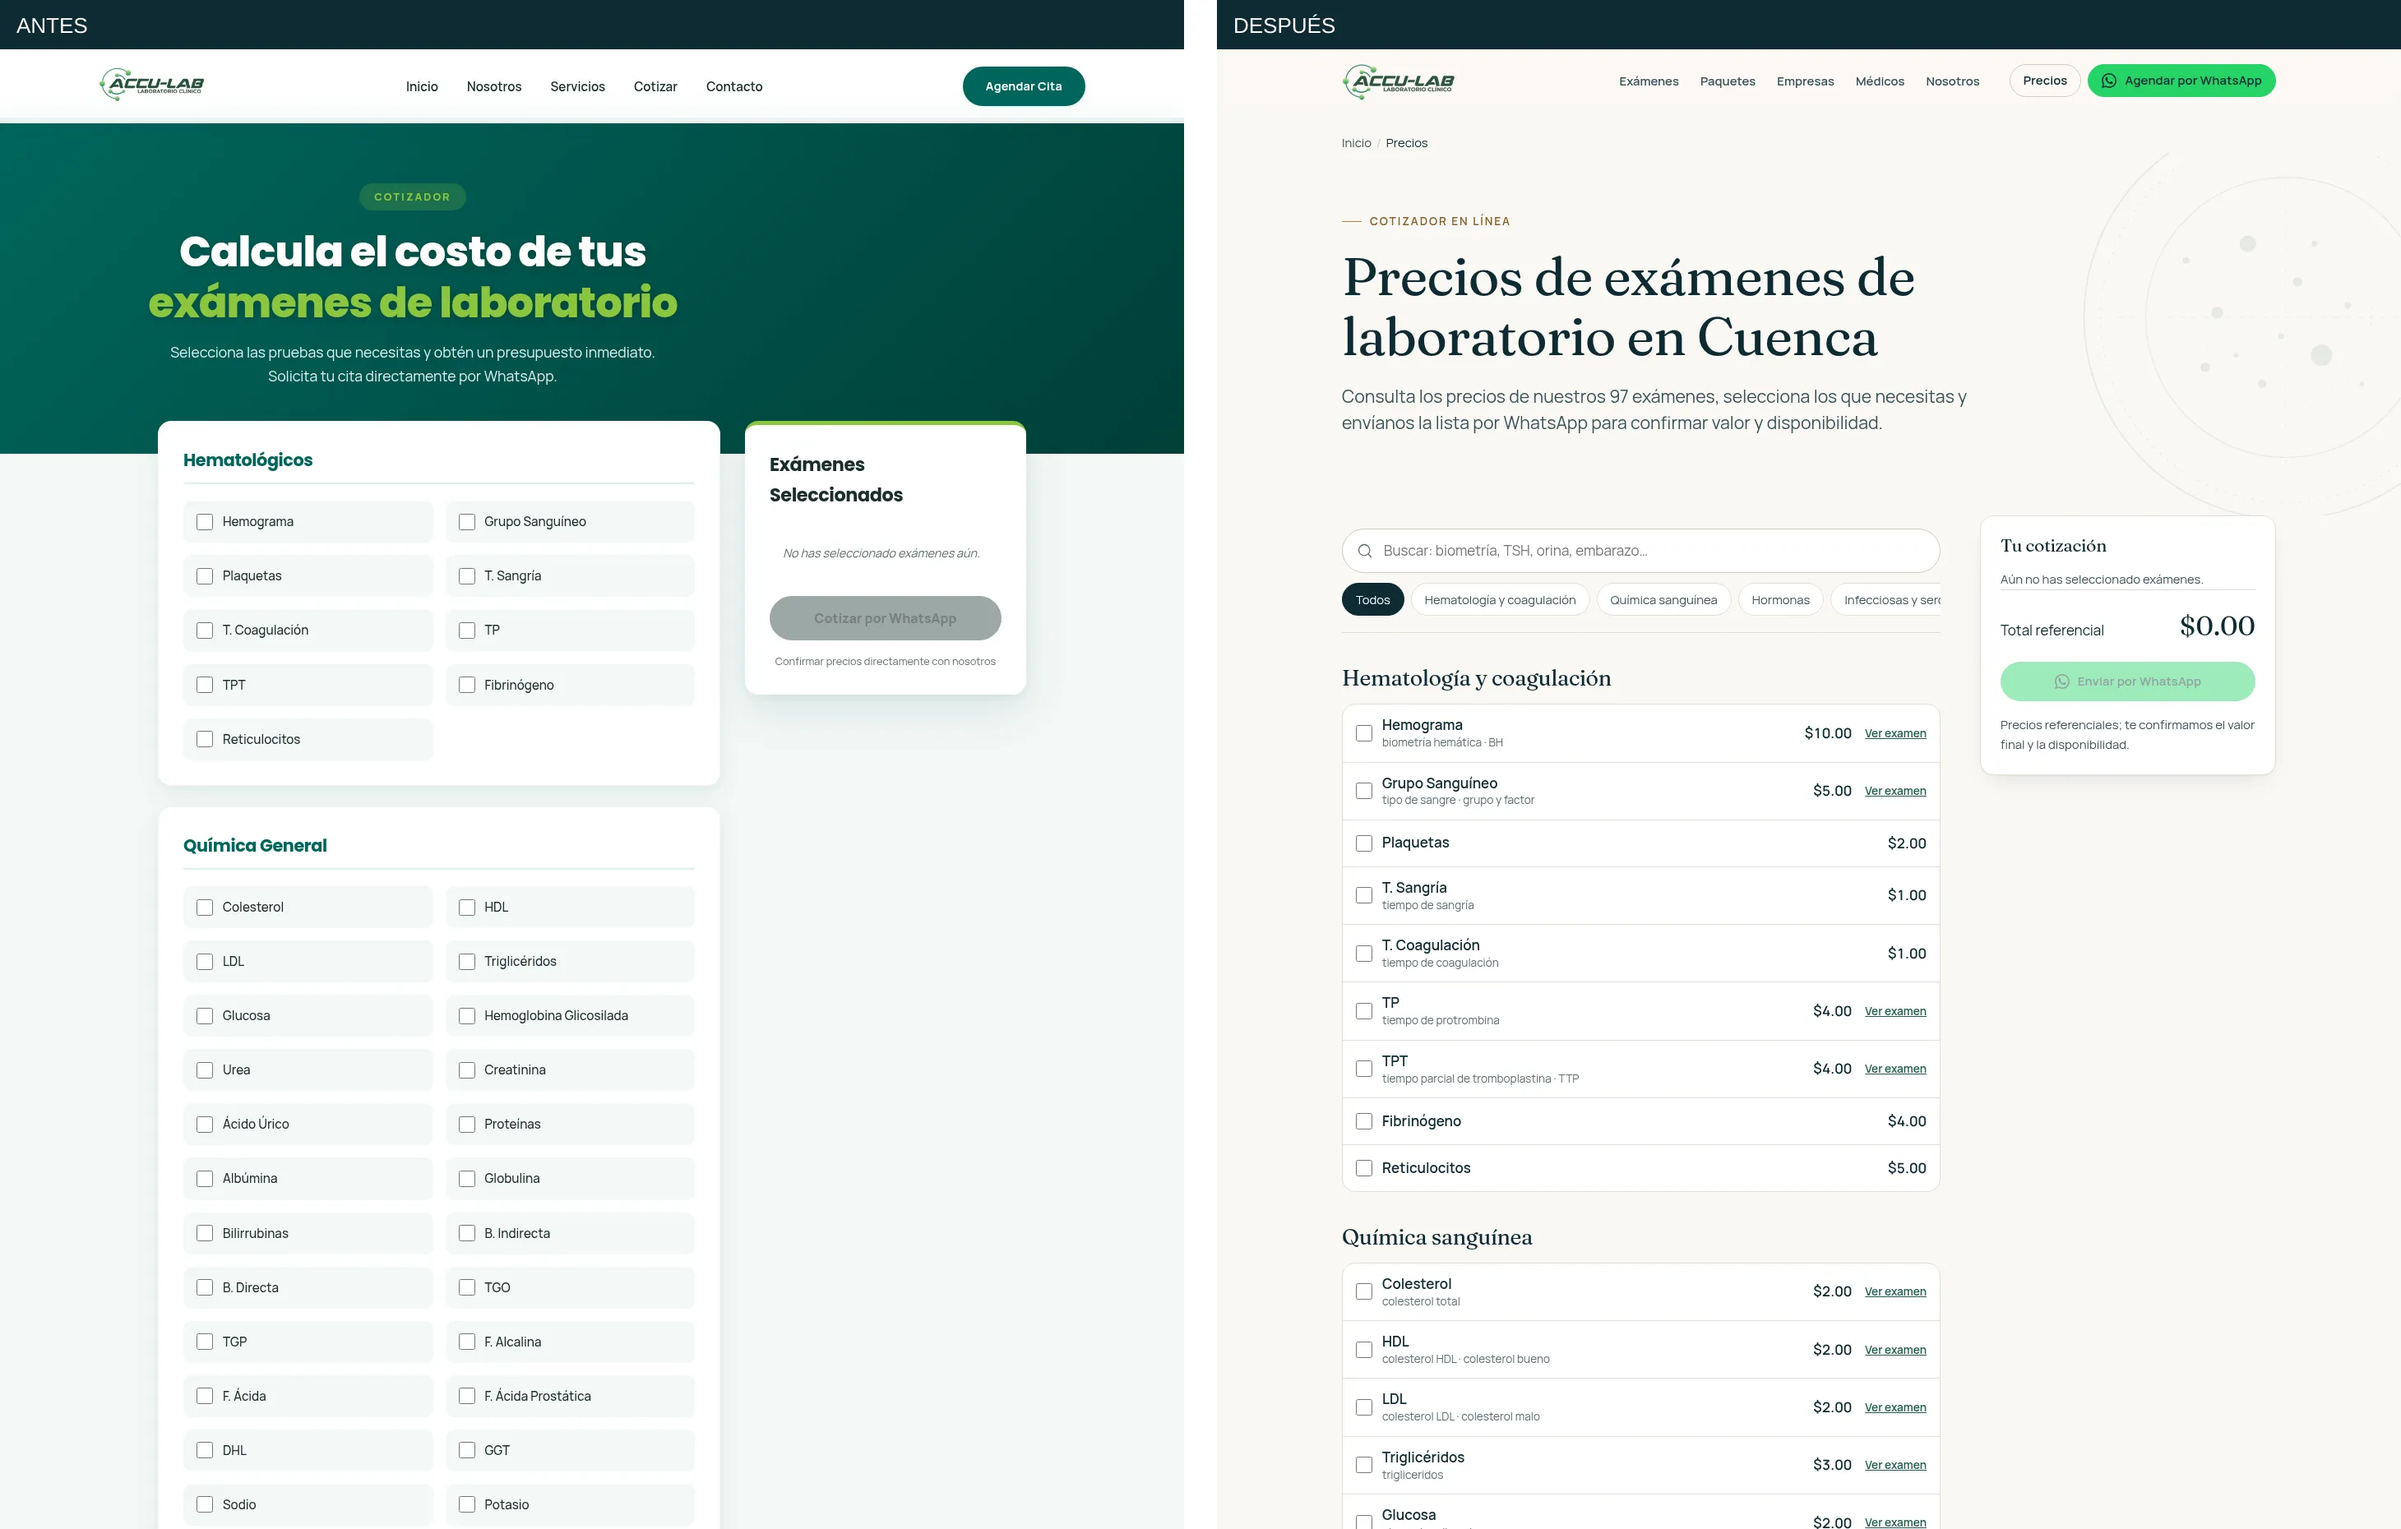
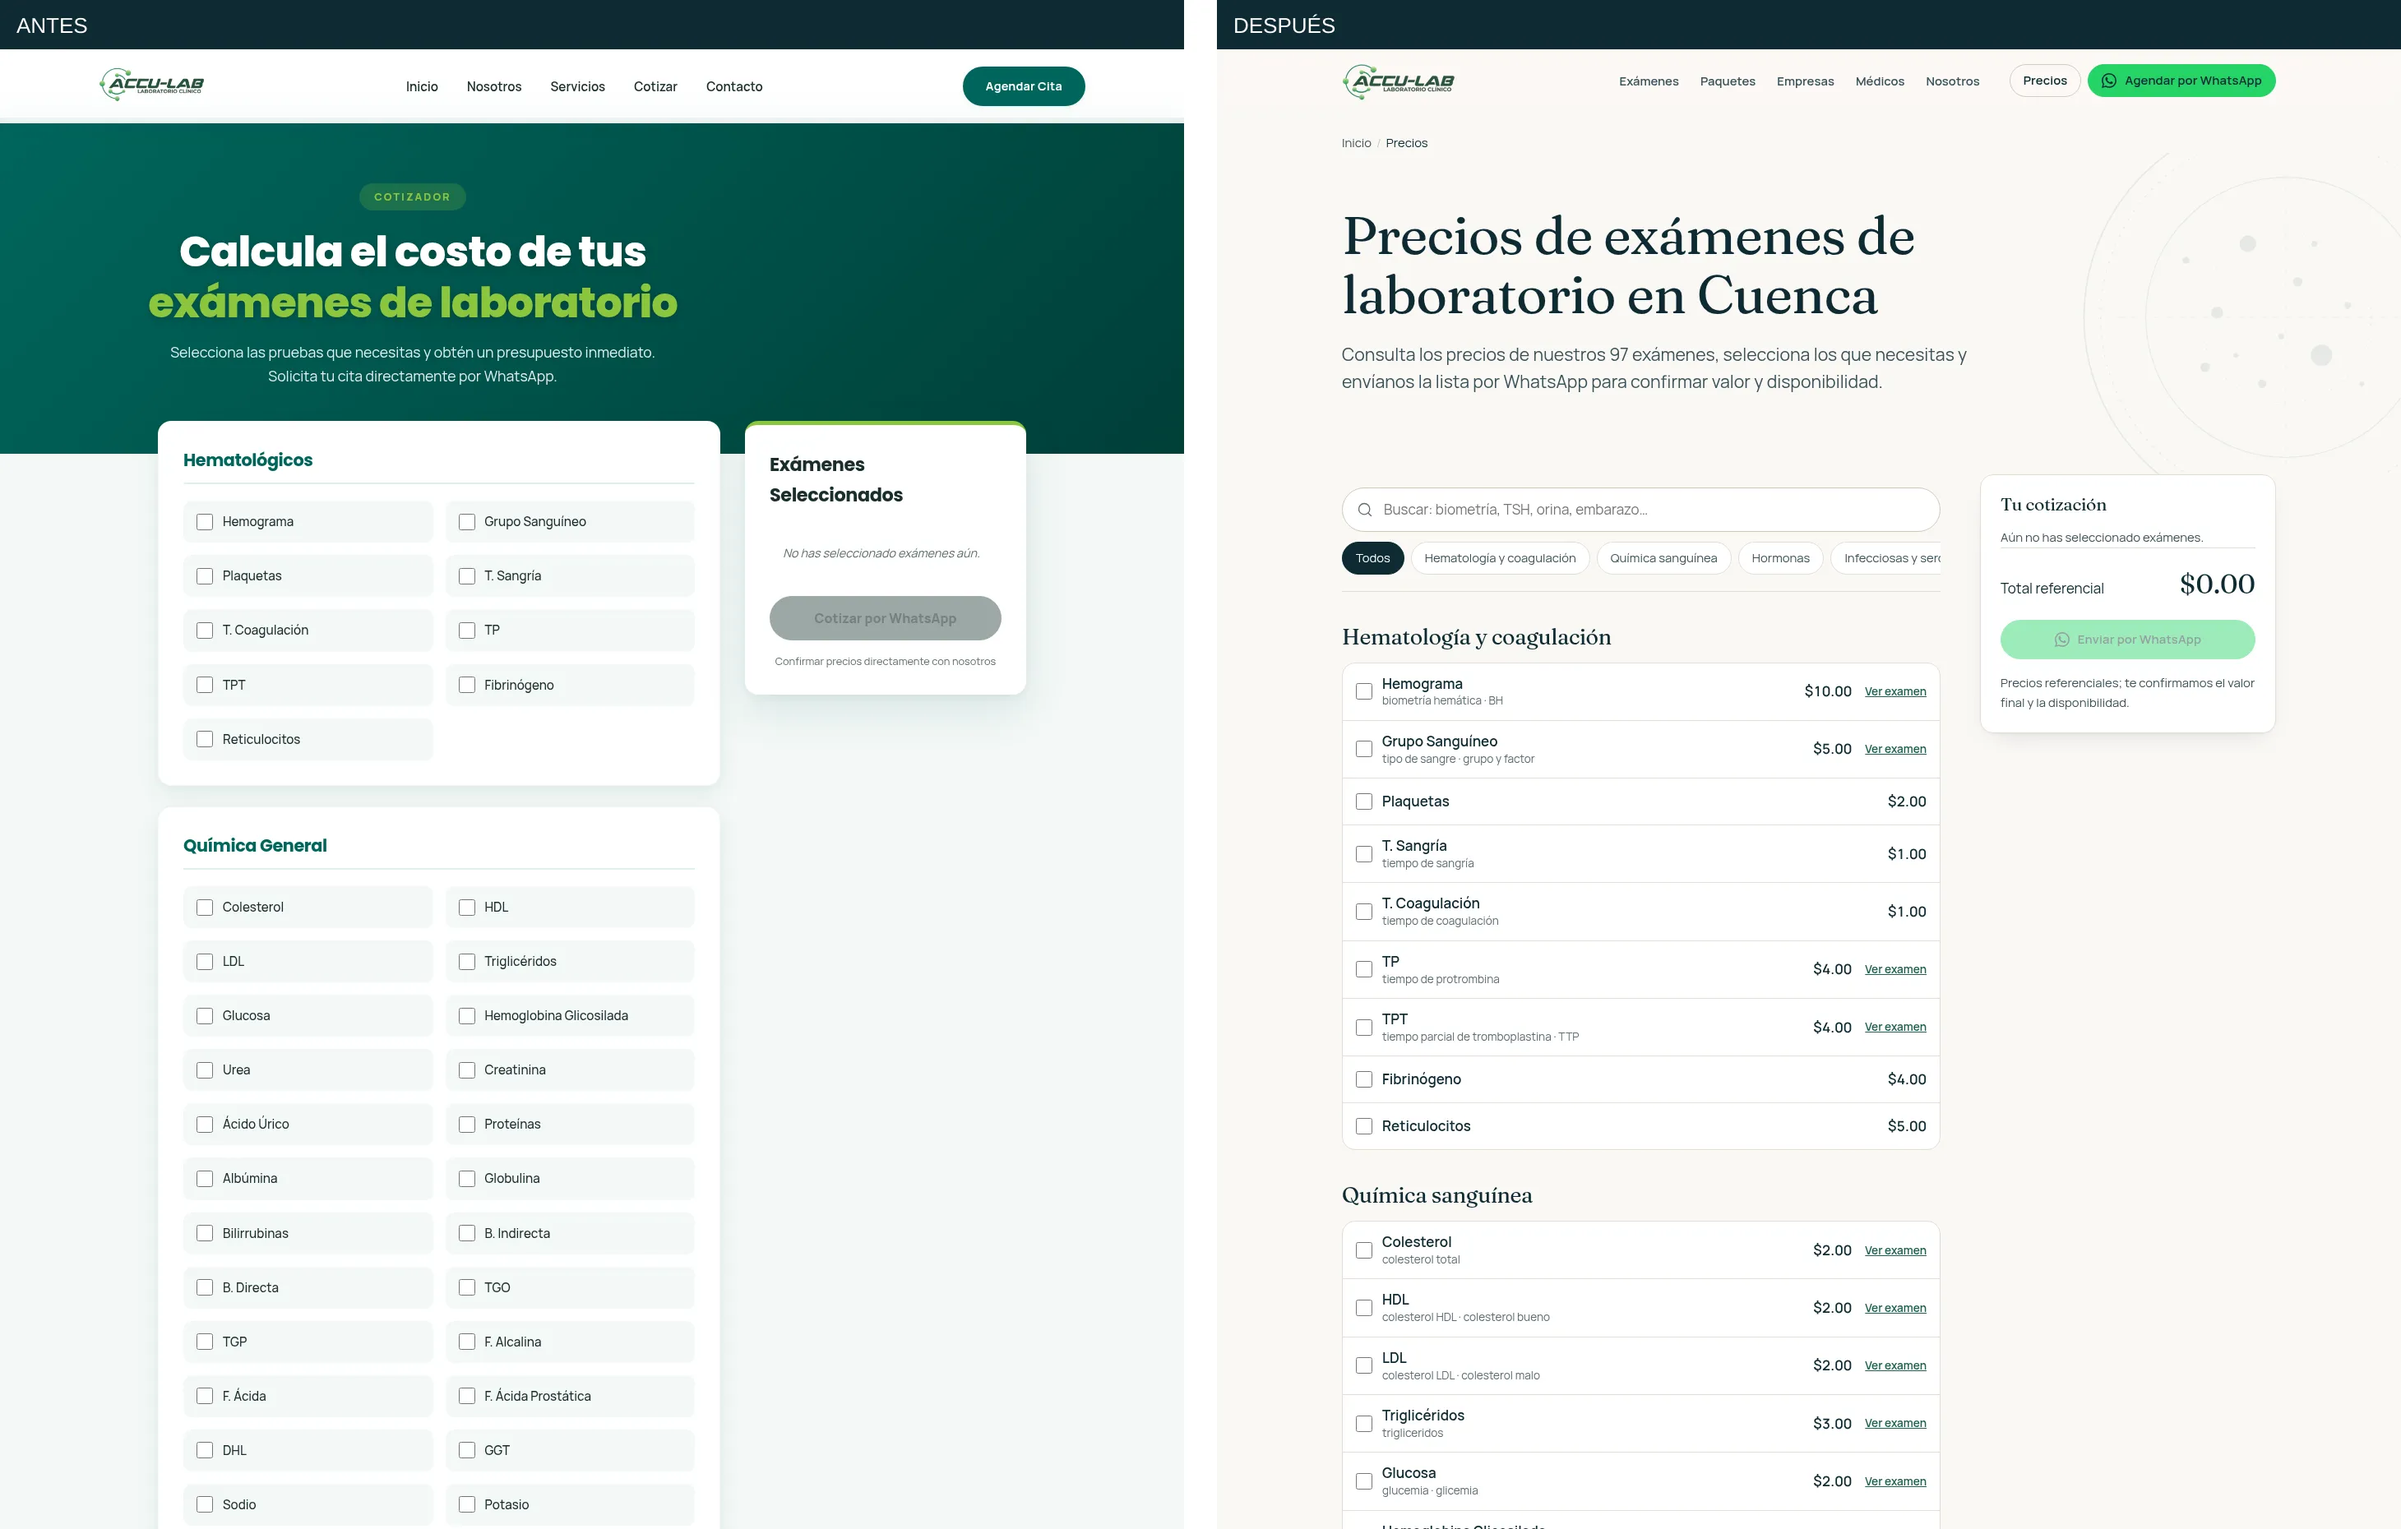
Quitar las etiquetas sobre los títulos en todas las páginas
- Eliminadas las etiquetas en versalitas (p. ej. "97 exámenes con precio"),
  la categoría de las tarjetas de examen y la línea dorada de las imágenes OG
- Estilos .eyebrow y .exam-card__cat retirados
- Texto de /examenes: "la mayoría de resultados está lista en 24 horas"
- Ajustes mínimos de texto en 3 páginas de examen para mantener 450+ palabras
- DESIGN-DECISIONS D-028, capturas y comparativas actualizadas

Claude-Session: https://claude.ai/code/session_01Auzc9Xyq8xikAKfSvydBMZ

diff --git a/src/pages/assets/og/[slug].png.ts b/src/pages/assets/og/[slug].png.ts
@@ -21,15 +21,15 @@ async function logo() {
 }
 
 export function getStaticPaths() {
-  const estaticas = Object.values(RUTAS).map((r) => ({ params: { slug: ogSlug(r.path) }, props: { titulo: r.og, sub: 'Laboratorio clínico en Cuenca' } }));
-  const examenes = PAGINAS.map((p) => ({ params: { slug: ogSlug(`/examenes/${p.slug}`) }, props: { titulo: `${p.h1} en Cuenca`, sub: 'Precio y preparación' } }));
-  return [...estaticas, ...examenes, { params: { slug: '404' }, props: { titulo: 'Página no encontrada', sub: 'Accu-Lab' } }];
+  const estaticas = Object.values(RUTAS).map((r) => ({ params: { slug: ogSlug(r.path) }, props: { titulo: r.og } }));
+  const examenes = PAGINAS.map((p) => ({ params: { slug: ogSlug(`/examenes/${p.slug}`) }, props: { titulo: `${p.h1} en Cuenca` } }));
+  return [...estaticas, ...examenes, { params: { slug: '404' }, props: { titulo: 'Página no encontrada' } }];
 }
 
 const h = (type: string, style: Record<string, unknown>, children?: unknown) => ({ type, props: { style, children } });
 
 export const GET: APIRoute = async ({ props }) => {
-  const { titulo, sub } = props as { titulo: string; sub: string };
+  const { titulo } = props as { titulo: string };
   const size = titulo.length > 48 ? 64 : titulo.length > 30 ? 76 : 88;
   const circles = [[980, 120, 260], [980, 120, 200], [980, 120, 120], [1080, 560, 180]].map(([x, y, r], i) =>
     h('div', { position: 'absolute', left: x - r, top: y - r, width: r * 2, height: r * 2, borderRadius: r, border: `${i === 1 ? 1 : 2}px solid rgba(140,198,63,${i === 3 ? 0.18 : 0.28})` }));
@@ -42,7 +42,6 @@ export const GET: APIRoute = async ({ props }) => {
         ]),
       ]),
       h('div', { display: 'flex', flexDirection: 'column' }, [
-        h('div', { fontSize: 26, color: '#d8b986', letterSpacing: 4, textTransform: 'uppercase', marginBottom: 20 }, sub),
         h('div', { fontFamily: 'Fraunces', fontSize: size, lineHeight: 1.08, color: '#ffffff', maxWidth: 900, letterSpacing: -1 }, titulo),
       ]),
       h('div', { display: 'flex', justifyContent: 'space-between', fontSize: 24, color: '#cfe0d8' }, [

diff --git a/src/styles/global.css b/src/styles/global.css
@@ -114,12 +114,6 @@ p { text-wrap: pretty; }
 .lead { font-size: var(--fs-md); line-height: 1.55; color: var(--ink-2); }
 .muted { color: var(--ink-2); }
 .small { font-size: var(--fs-sm); }
-.eyebrow {
-  display: inline-flex; align-items: center; gap: 10px;
-  font-size: var(--fs-xs); font-weight: 600; letter-spacing: 0.14em; text-transform: uppercase;
-  color: var(--accent-ink);
-}
-.eyebrow::before { content: ''; width: 24px; height: 1px; background: var(--accent); }
 .prose > * + * { margin-top: 1em; }
 .prose h2 { margin-top: 2.2em; font-size: clamp(var(--fs-lg), 3vw, var(--fs-xl)); }
 .prose h3 { margin-top: 1.6em; }
@@ -138,9 +132,7 @@ p { text-wrap: pretty; }
 .section--ink { background: var(--ink); color: #e9eeef; }
 .section--ink h2, .section--ink h3 { color: #fff; }
 .section--ink .muted, .section--ink .lead { color: #bfcccf; }
-.section--ink .eyebrow { color: #d8b986; }
-.section--ink .eyebrow::before { background: #d8b986; }
-.section-head { max-width: 680px; margin-bottom: var(--s-12); }
+.section--ink .section--ink .section-head { max-width: 680px; margin-bottom: var(--s-12); }
 .section-head > * + * { margin-top: var(--s-4); }
 .section-head--center { margin-inline: auto; text-align: center; }
 .section-head--row { max-width: none; display: flex; flex-wrap: wrap; align-items: end; justify-content: space-between; gap: var(--s-6); }
@@ -247,7 +239,6 @@ p { text-wrap: pretty; }
 
 /* Tarjeta de examen */
 .exam-card { gap: var(--s-2); }
-.exam-card__cat { font-size: var(--fs-xs); font-weight: 600; letter-spacing: 0.1em; text-transform: uppercase; color: var(--ink-3); }
 .exam-card h3 { font-size: var(--fs-md); margin: 0; }
 .exam-card h3 a { text-decoration: none; }
 .exam-card__syn { font-size: var(--fs-sm); color: var(--ink-3); }

diff --git a/src/data/paginas/infecciosas.ts b/src/data/paginas/infecciosas.ts
@@ -153,7 +153,7 @@ export const INFECCIOSAS: PaginaExamen[] = [
       'El VDRL es una de las pruebas más usadas para el tamizaje de la sífilis, una infección de transmisión sexual que tiene tratamiento. Se realiza con una muestra de sangre.',
     queEs: [
       'La sífilis la causa una bacteria llamada Treponema pallidum. El VDRL no busca la bacteria directamente, sino anticuerpos que el cuerpo produce durante la infección. Por eso se considera una prueba "no treponémica".',
-      'Algunas condiciones distintas de la sífilis pueden dar un VDRL reactivo, y en etapas muy tempranas puede salir negativo. Por eso un resultado reactivo se confirma con otras pruebas, y el médico también puede usar el VDRL para seguir la respuesta al tratamiento.',
+      'Algunas condiciones distintas de la sífilis pueden dar un VDRL reactivo, y en etapas muy tempranas puede salir negativo. Por eso un resultado reactivo se confirma con otras pruebas, y el médico también puede usar el VDRL para seguir la respuesta al tratamiento a lo largo de varios meses.',
     ],
     cuando: {
       intro: 'Es frecuente solicitarlo en:',

diff --git a/src/data/paginas/especiales.ts b/src/data/paginas/especiales.ts
@@ -150,7 +150,7 @@ export const ESPECIALES: PaginaExamen[] = [
       'El perfil TORCH agrupa pruebas de anticuerpos contra infecciones que conviene conocer antes o durante el embarazo: toxoplasma, rubéola, citomegalovirus y herpes simple.',
     queEs: [
       'TORCH es una sigla que agrupa infecciones que pueden transmitirse de la madre al bebé durante el embarazo. En Accu-Lab cada componente mide anticuerpos IgG e IgM: la IgG suele indicar contacto previo o inmunidad, y la IgM puede sugerir una infección más reciente.',
-      'El resultado no se interpreta aislado: una IgM positiva, por ejemplo, a veces requiere pruebas adicionales para confirmar su significado. Tu ginecólogo o médico tratante es quien lo valora.',
+      'El resultado no se interpreta aislado: una IgM positiva, por ejemplo, a veces requiere pruebas adicionales para confirmar su significado. Tu ginecólogo o médico tratante es quien lo valora y decide si hace falta repetir alguna prueba más adelante.',
     ],
     cuando: {
       intro: 'Es habitual solicitarlo en:',

diff --git a/src/data/paginas/hormonas.ts b/src/data/paginas/hormonas.ts
@@ -64,7 +64,7 @@ export const HORMONAS: PaginaExamen[] = [
       'La testosterona es la principal hormona sexual masculina, aunque también está presente, en menor cantidad, en las mujeres. Su medición se pide tanto en la consulta de hombres como en la de mujeres.',
     queEs: [
       'En los hombres, la testosterona se produce principalmente en los testículos e influye en la libido, la masa muscular, la energía y la producción de espermatozoides. En las mujeres la producen los ovarios y las glándulas suprarrenales.',
-      'Su nivel cambia a lo largo del día: suele ser más alto en la mañana. Por eso el horario de la toma importa, y a veces el médico pide repetir la medición para confirmar un resultado.',
+      'Su nivel cambia a lo largo del día: suele ser más alto en la mañana. Por eso el horario de la toma importa, y a veces el médico pide repetir la medición otro día para confirmar un resultado antes de tomar decisiones.',
     ],
     cuando: {
       intro: 'Suele solicitarse en situaciones como:',

diff --git a/RESUMEN-CAMBIOS.md b/RESUMEN-CAMBIOS.md
@@ -41,7 +41,7 @@ Se migró el sitio de 4 páginas HTML sueltas a **Astro estático con 38 página
 
 **Fase 3 · Arquitectura:** navegación Exámenes · Paquetes · Empresas · Médicos · Nosotros · Precios · Agendar por WhatsApp. Páginas nuevas: `/examenes`, 25 × `/examenes/[slug]`, `/paquetes`, `/empresas`, `/medicos`, `/domicilio`, `/preparacion` y `/preguntas-frecuentes`. Breadcrumbs visibles; el footer enlaza los 10 exámenes más buscados; anchors descriptivos.
 
-**Fase 4 · On-page:** titles y H1 con palabra clave (home, cotizar, servicios, nosotros); los eyebrows ya no son encabezados; el footer usa `<p>`; descriptions únicas; alts descriptivos y honestos; vocabulario local (biometría hemática, EMO, coproparasitario, beta HCG, preocupacionales); dirección "Av. de las Américas".
+**Fase 4 · On-page:** titles y H1 con palabra clave (home, cotizar, servicios, nosotros); se eliminaron las etiquetas pequeñas sobre los títulos (D-028); el footer usa `<p>`; descriptions únicas; alts descriptivos y honestos; vocabulario local (biometría hemática, EMO, coproparasitario, beta HCG, preocupacionales); dirección "Av. de las Américas".
 
 **Fase 5 · Catálogo:** `data/examenes.json` (97 exámenes: slug, nombre exacto, sinónimos, categoría, precio, página, preparación y relacionados) es la fuente única del cotizador, del `hasOfferCatalog`, de `/examenes`, de los paquetes y de las páginas. Hay 25 páginas de examen con la plantilla pedida: precio, entrega, preparación, WhatsApp prellenado, 5 H2, desglose de perfiles, 3 FAQ, 3 relacionados, paquete, aviso educativo, MedlinePlus y fecha de actualización.
 

diff --git a/DESIGN-DECISIONS.md b/DESIGN-DECISIONS.md
@@ -170,3 +170,8 @@ Si existe `PUBLIC_GA4_ID` (variable de entorno de Vercel), gtag se carga tras la
 
 **Por qué:** una suma visible junto a un paquete se lee como su precio. Un plazo de 24 h en un examen que puede tardar 72 h genera reclamos. En los tres casos, un visitante podía confundirse.
 **Descartado:** mostrar la suma con una advertencia (sigue pareciendo un precio) y quitar los paquetes del sitio (son contenido publicado y sirven para el SEO).
+
+## D-028 · Sin etiquetas pequeñas sobre los títulos
+**Qué:** se eliminaron todas las etiquetas en versalitas que iban sobre los títulos ("97 exámenes con precio", "Precios publicados", "Proceso simple", la categoría en las tarjetas de examen y la línea dorada de las imágenes OG). También se retiraron sus estilos (`.eyebrow`, `.exam-card__cat`).
+**Por qué:** pedido del cliente: ese recurso se percibe como un sello de sitios generados con IA. La jerarquía la sostienen el título en serif y el espaciado.
+**Descartado:** conservarlas solo en algunas secciones (se pidió quitarlas de todas las páginas).
